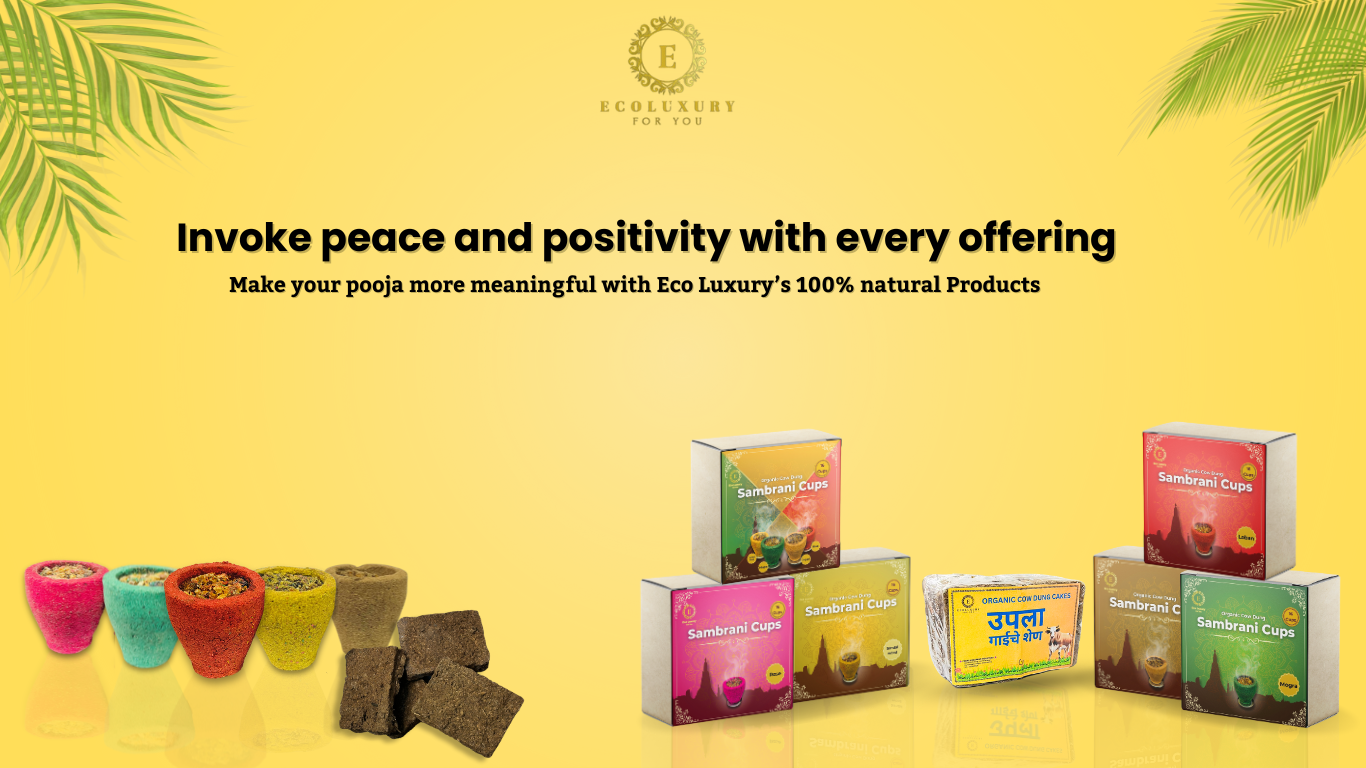
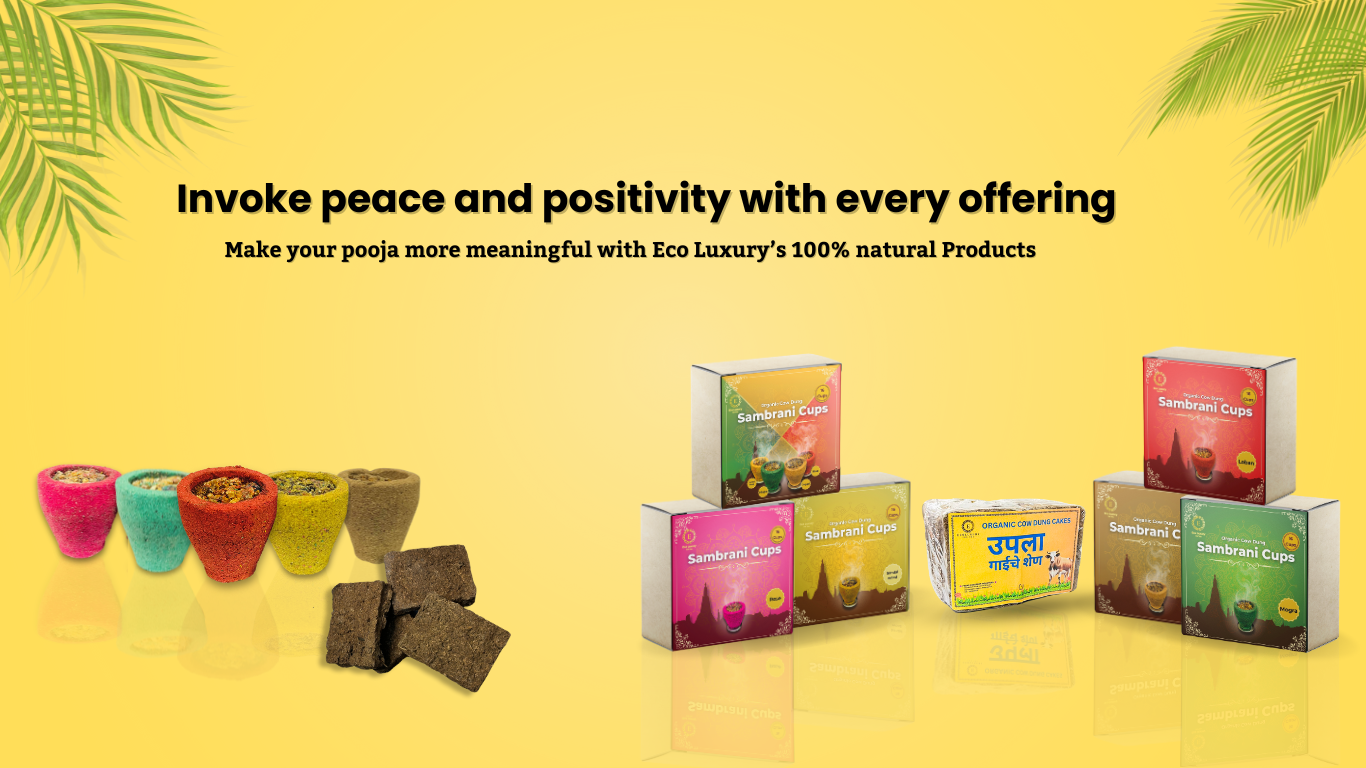
ffff

diff --git a/puja/src/Component/AboutSection.js b/puja/src/Component/AboutSection.js
@@ -1,5 +1,5 @@
 import React, { useState } from 'react';
-import aboutImage from '../assets/about.webp'; // Update the image path accordingly
+import aboutImage from '../assets/about.png'; // Update the image path accordingly
 import '../CSS/AboutSection.css';
 
 const truncateText = (text, maxLength) => {

diff --git a/puja/src/CSS/HeroSection.css b/puja/src/CSS/HeroSection.css
@@ -1,6 +1,6 @@
 .hero-container {
   width: 100%;
-  height: 120vh;
+  height: 100vh;
   background-image: url('../assets/Hero.png'); /* Set your background image here */
   background-size: cover;
   background-position: center;
